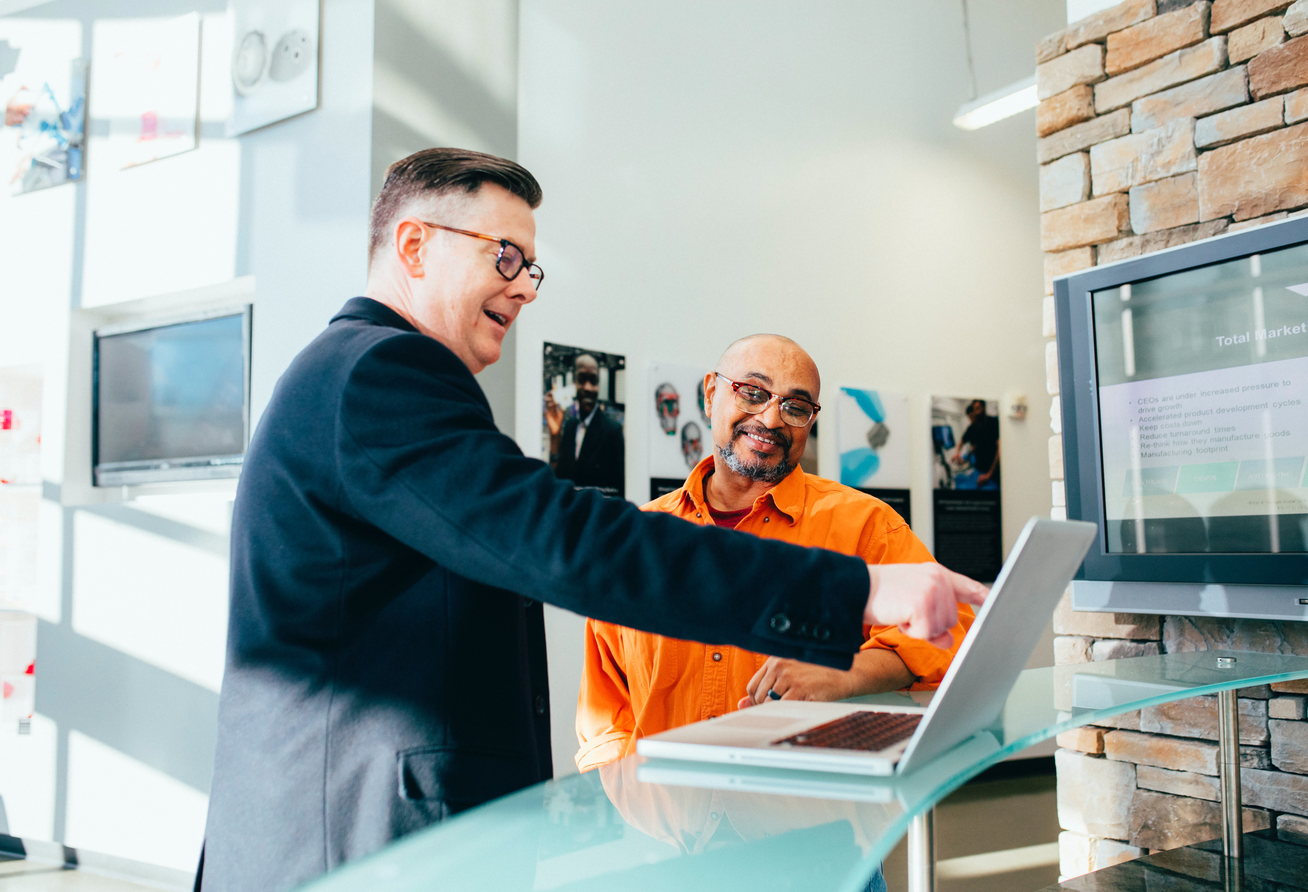
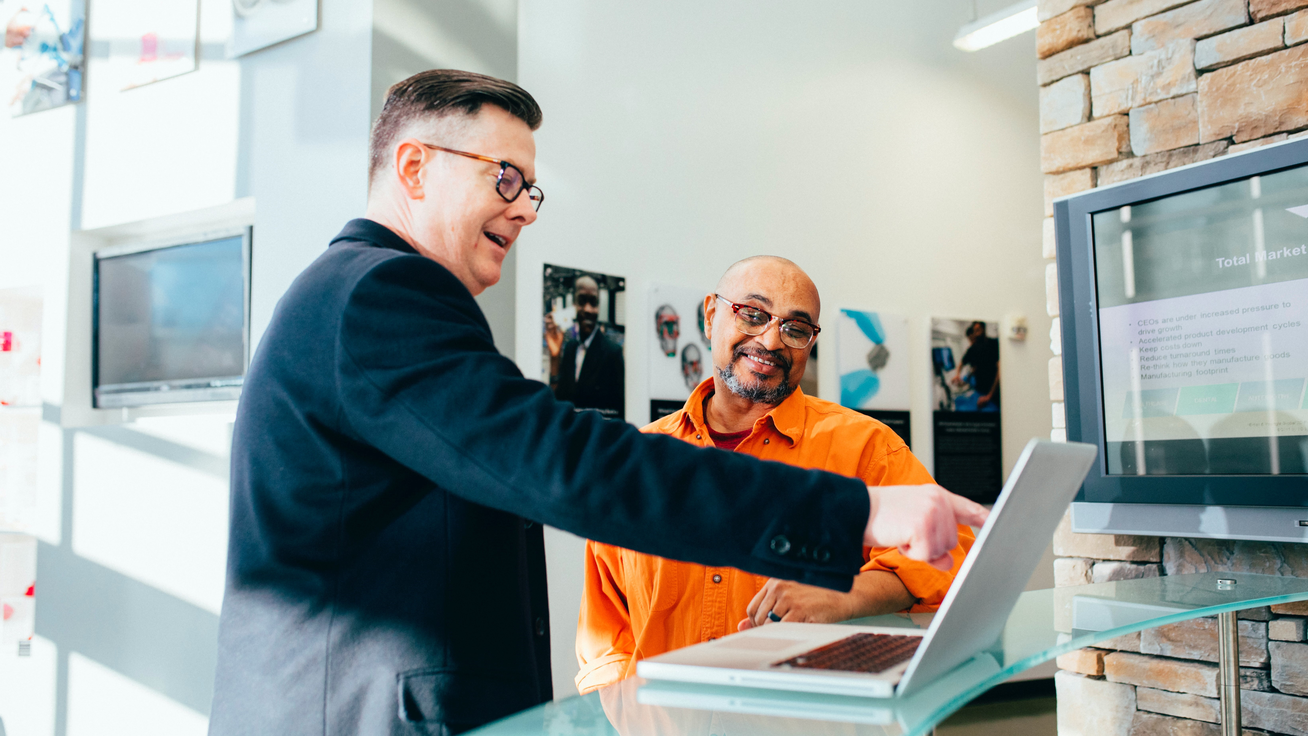
Navigation und Hero

diff --git a/index.html b/index.html
@@ -14,85 +14,62 @@
         <script type="text/javascript" src="libs/bulma-collabsible/js/bulma-collapsible.min.js"></script>
         <script type="text/javascript" src="libs/index.js"></script>
 
-        <style>
-            .hero {
-            background: url(images/background.png) center / cover;
-            }
-        </style>
-
      </head>
-    <body class="has-navbar-fixed-top">
+    <body>
 
         <!-- /.navbar -->
-        <nav class="navbar has-shadow is-white is-fixed-top" role="navigation" aria-label="main navigation">
-        <div class="navbar-brand">
-            <a class="navbar-item">
-                <img src="images/logo.gif" alt="Logo" style="max-width: 28px">
-            </a>
-
-            <a role="button" class="navbar-burger has-text-black" id="burger" aria-label="menu" aria-expanded="false" data-target="navMenu">
-            <span aria-hidden="true"></span>
-            <span aria-hidden="true"></span>
-            <span aria-hidden="true"></span>
-            </a>
-        </div>
-
-        <div id="navMenu" class="navbar-menu">
-            <div class="navbar-end ">
-            <a class="navbar-item">
-                <strong>Kompetenzen</strong>
-            </a>
-            <a class="navbar-item">
-                <strong>Portfolio</strong>
-            </a>
-            <a class="navbar-item">
-                <strong>Über Mich</strong>
-            </a>
-            <div class="navbar-item">
-                <div class="buttons">
-                <a class="button is-black">
-                    <strong>Kontakt</strong>
+        <nav class="navbar is-white is-fixed-top is-family-monospace" aria-label="main navigation">
+            <div class="navbar-brand">
+                <a class="navbar-item" href="index.html">
+                  <img src="images/logo.gif" width="80">
                 </a>
+                <h1 class="navbar-item title is-4">
+                    ROLF  FUHRMANN
+                </h1>
+            </div>
+
+            <div id="navMenu" class="navbar-menu">
+                <div class="navbar-end ">
+                    <a class="navbar-item" href="#kompetenzen">
+                        <strong>Kompetenzen</strong>
+                    </a>
+                    <a class="navbar-item" href="#portfolio">
+                        <strong>Portfolio</strong>
+                    </a>
+                    <a class="navbar-item">
+                        <strong>Über Mich</strong>
+                    </a>
                 </div>
             </div>
-            </div>
-        </div>
         </nav>
         <!-- /.navbar -->
 
         <!-- /.hero Landing-->
-        <section class="hero is-fullheight-with-navbar">
+        <section class="hero is-medium">
             <div class="hero-body">
                 <div class="container is-fluid">
-                    <div class="columns is-multiline">
-                        <div class="column is-12">
-                        <p class="subtitle py-5 has-text-black">
-                            Rolf Fuhrmann
-                        </p>
-                        </div> 
-                        <div class="column is-12">
-                        <h1 class="title pt-1 is-family-monospace has-text-primary">
-                            Kompetenz in der</br>
-                            Fullstack Webentwicklung
-                        </h1>
-                        </div>
-                        <div class="column is-7">
-                        <p class="subtitle pt-2 has-text-black">
-                            Meine Kernkompetenz ist die Entwicklung von Software für Frontend und Backend. Seit 2005 habe ich mein wissen und meine Erfahrung in vielen Projekten erfolgreich eingebracht. 
-                            Dabei habe ich für die Anforderungen meiner Kunden immer kreative und gute Lösungen gefunden. Ein  besonderes Augenmerk habe ich auch auf die Softwarequalität gelegt. 
-                            Zum Tagegeschäft gehört dabei auch der versierte Umgang mit den gängigen Tools die den Entwicklungsprozess und die Qualität unterstützen. 
-                            Durch Neugier an den neuesten technischen Entwicklungen und ein hohes persönliches Engagement zur Weiterbildung bleibe ich auf der Höhe der Zeit.
-                        </p> 
+                    <div class="columns">
+                        <div class="column is-half ml-6 mt-6 content is-medium">
+                            <h1 class="title has-text-white">
+                                Kompetenz in der</br>
+                                Fullstack Webentwicklung
+                            </h1>
+                            <p class="has-text-white">
+                                Meine Kernkompetenz ist die Entwicklung von Software für Frontend und Backend. Seit 2005 habe ich mein wissen und meine Erfahrung in vielen Projekten erfolgreich eingebracht. 
+                                Dabei habe ich für die Anforderungen meiner Kunden immer kreative und gute Lösungen gefunden. Ein  besonderes Augenmerk habe ich auch auf die Softwarequalität gelegt. 
+                                Zum Tagegeschäft gehört dabei auch der versierte Umgang mit den gängigen Tools die den Entwicklungsprozess und die Qualität unterstützen. 
+                                Durch Neugier an den neuesten technischen Entwicklungen und ein hohes persönliches Engagement zur Weiterbildung bleibe ich auf der Höhe der Zeit.
+                            </p> 
                         </div>
                     </div>        
                 </div>
             </div>
-        </section>
+        </section>        
         <!-- /.hero Landing-->
 
 
         <!-- /.section Kompetenzen-->
-        <section class="section container is-fluid mt-6">
+        <section id="kompetenzen" class="section container is-fluid mt-6">
             <h1 class="title is-family-monospace has-text-primary">Kompetenzen</h1>
             <div class="columns is-multiline">
                 
@@ -217,7 +194,7 @@
         </section>
         <!-- /.section Kompetenzen-->
 
-        <section class="section container is-fluid">
+        <section class="section container is-fluid" id="portfolio">
             <h1 class="title has-text-primary">Portfolio</h1>
             <div class="box is-shadowless has-background-white-ter"> 
                 <div class="columns">
@@ -261,8 +238,31 @@
                 aria-label="Kontakt Informationen"
                 class="kontakt-sticky" 
                 id="kontakt-info-sticky">Kontakt</a>
+                <div>
+                    <div>
+                        <div>
+                            <address>
+                                Rolf Fuhrmann
+                                <br/>Kutzerstr. 105c
+                                <br/><br/>90765 Fürth
+                            </address>
+                        </div>
+                    </div>
+                </div>
+                
+                 <div class="container">
+                    <span></span>&nbsp;+49.911.89295634
+                    <br/>
+                    <span></span>&nbsp;+49.911.38445168
+                    <br/>
+                    <span></span>&nbsp;+49.179.5032935
+                    <br/>
+                    <span></span>&nbsp;<img src="images/mail.jpg">
+                 </div>
             </div>
         </div>
+  
+
 
     </body>
 </html>

diff --git a/css/style.css b/css/style.css
@@ -1,5 +1,29 @@
 @charset "UTF-8";
 
+.hero {
+  background-image: url("./../images/work-together-5.jpg");
+  background-repeat: no-repeat;
+  background-attachment: fixed;
+  background-size: cover;
+}
+
+.hero-body div.column {
+  background: linear-gradient(
+    to right,
+    rgba(80, 190, 190, 0.7) 0,
+    rgba(0, 153, 153, 0.7) 50%,
+    rgba(0, 153, 176, 0.7) 83%,
+    rgba(0, 153, 203, 0.7) 100%
+  );
+}
+
+.navbar-item img {
+  max-height: 6rem;
+}
+nav.navbar div.navbar-brand h1.navbar-item {
+  color: #7b7c7f;
+}
+
 .arrow {
   border: solid #363636;
   border-width: 0 2px 2px 0;
